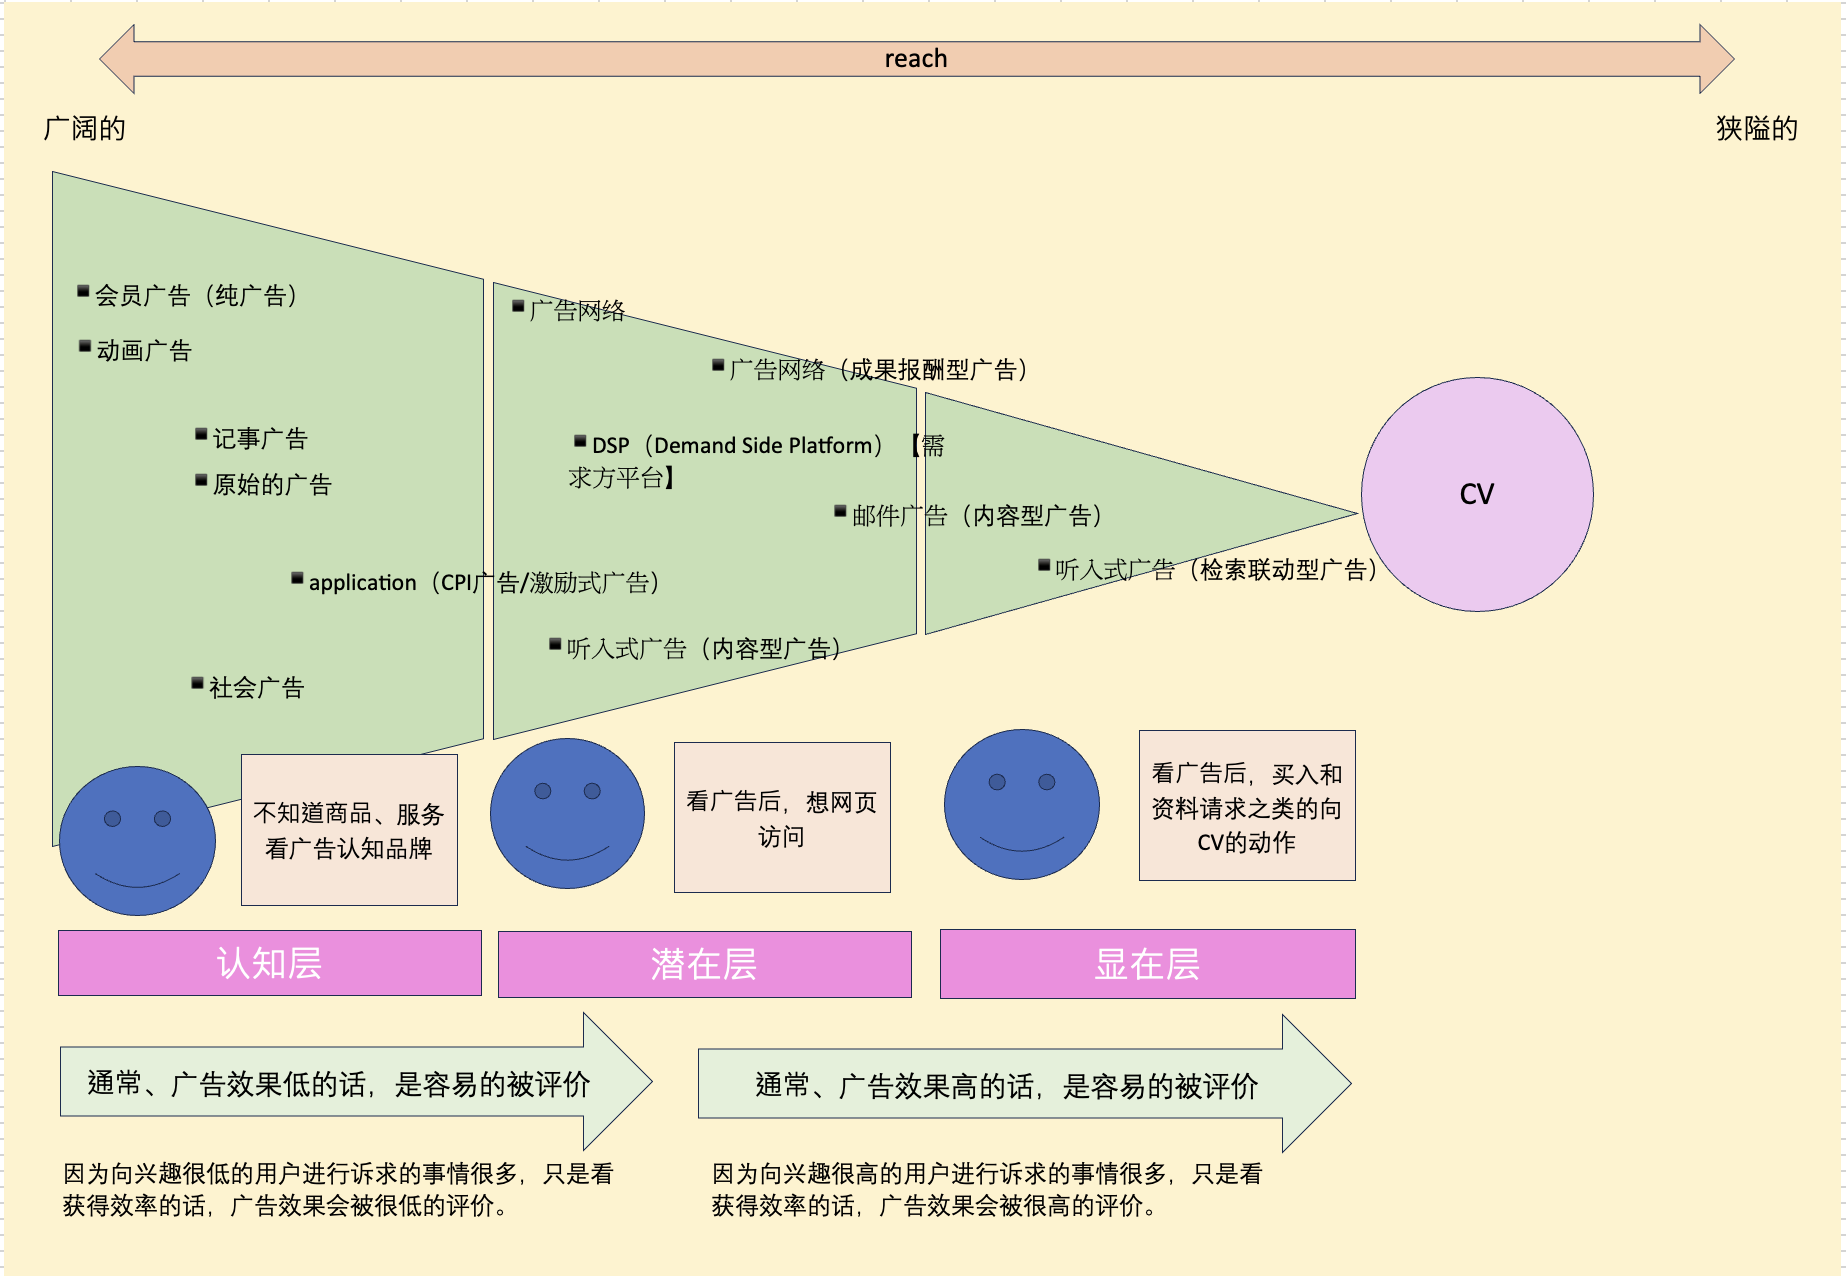
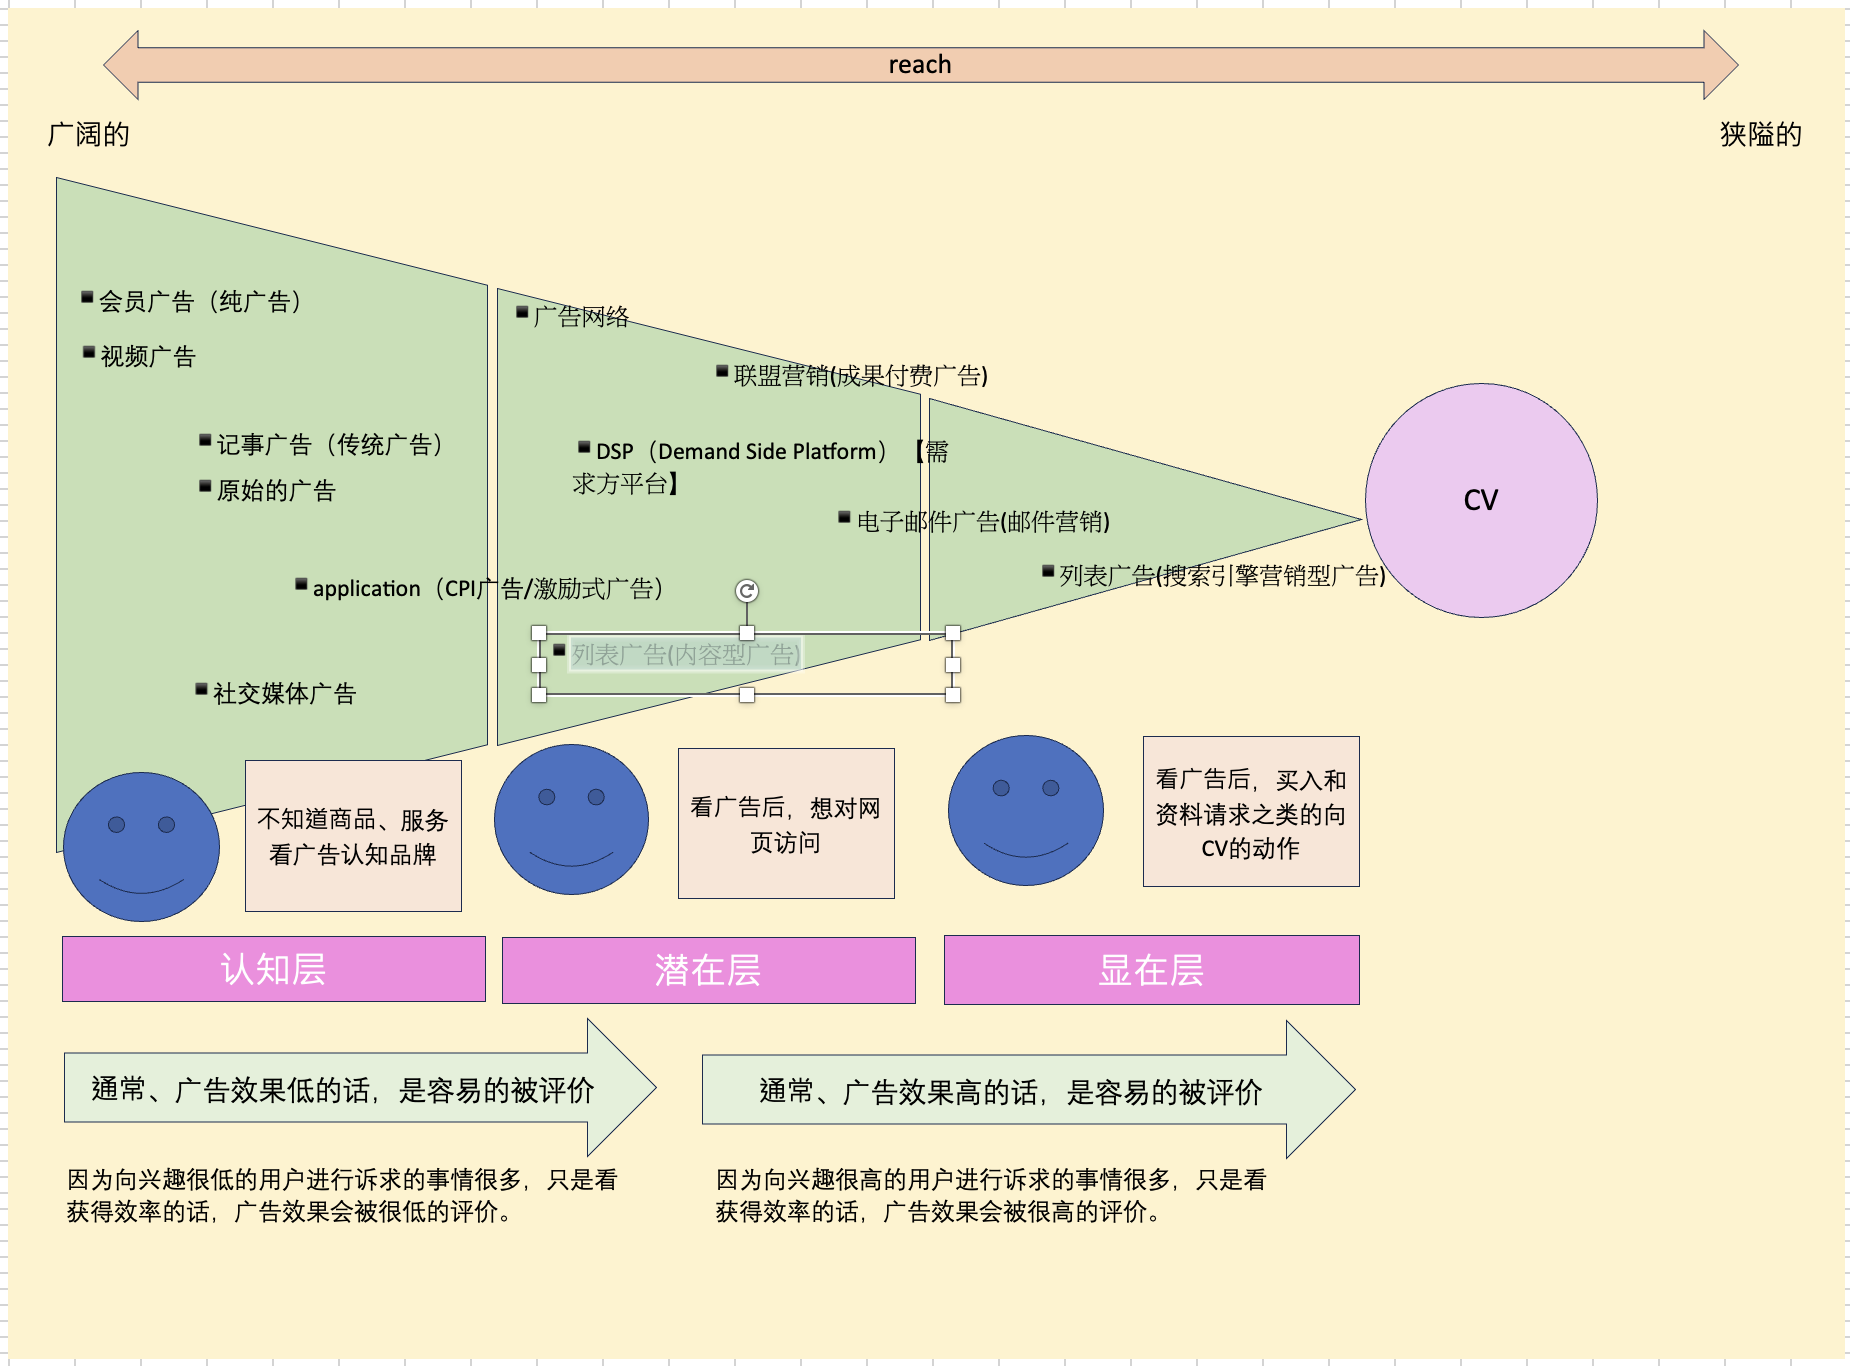
Web分析学习笔记更新 2024/4/29

diff --git a/Web analyst/Web解析/06_001_根据广告进行收集客户和效果测定指标的基本.md b/Web analyst/Web解析/06_001_根据广告进行收集客户和效果测定指标的基本.md
@@ -17,3 +17,17 @@
 </p>
 
 ![advance_commuication_total_menue](https://github.com/Seankharisma/Data_Analysis_Project/blob/master/Web%20analyst/Web%E8%A7%A3%E6%9E%90/picture/advance_commuication_total_menue.png)</p>
+
+
+| 广告菜单                                                  | 特长                                                                                                                      | 
+|:------------------------------------------------------|:------------------------------------------------------------------------------------------------------------------------|
+| 会员广告（纯广告）                                             | 使用在容易进到用户眼界里的好的广告区域进行广告的推广，对产品的认识度和知名度是有效果的提升                                                                           |
+| 动画广告                                                  | 作为广告进行视频动画、以及视频内容的广告推广的手法                                                                                               | 
+| 记事广告（传统广告）                                            | 在各种媒体的公司为基础、网页的内容作为广告让其阅读                                                                                               | 
+| 社交媒体广告                                                | 符合广告媒体的格式，在内容里加入广告，不用给用户压力进行收集客户的方法                                                                                     | 
+| application（CPI广告/激励式广告）                              | 在用户使用应用程序中，显示广告的方法                                                                                                      | 
+| DSP（Demand Side Platform）【需求方平台】                      | 以每一次曝光(impression)为单位,在多个广告投放网络上进行竞价,并投放广告的方法                                                                           |
+| 联盟营销(成果付费广告)                                          | 将多个媒体广告位整合在一起进行广告投放,只在产生成果时支付费用                                                                                         |
+| 电子邮件广告(邮件营销)                                          | 将广告文本以电子邮件的形式发送,或者在电子邮件的邮件头部分插入广告文本,通过电子邮件进行投放的方式                                                                       |
+| 列表广告(内容型广告)                                           | 在与自家产品或服务高度相关的内容中展示广告的方式                                                                                     |
+| 列表广告(搜索引擎营销型广告)                                       | 通过管理界面对与搜索引擎相连的文本形式的广告进行竞价投放的方式                                                                                                |
